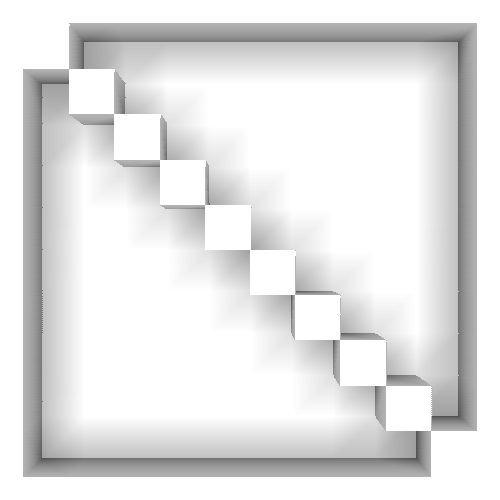
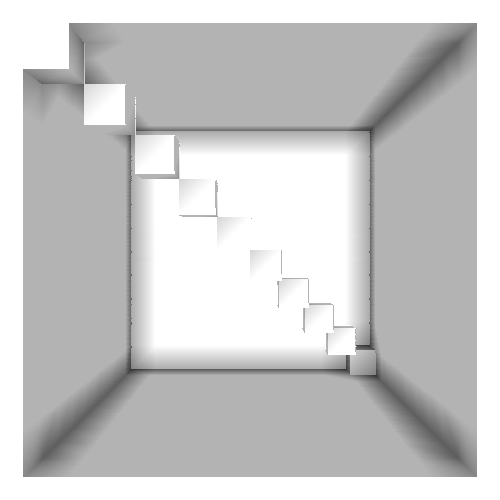
added 3d region

diff --git a/src/render/block.c b/src/render/block.c
@@ -26,10 +26,14 @@ Vertex* bufferGet(VertexBuffer* buffer, size_t index) {
 	return &buffer->data[index];
 }
 
-int index2D(int* grid, size_t x, size_t y, size_t width, size_t height, int outBounds) {
-	if (x < 0 || x >= width || y < 0 || y >= width) return outBounds;
-
-	return grid[y * width + x];
+int index3D(int* grid, Vec3 pos, Vec3 size) {
+	if (pos.z < 0) {
+		return 0;
+	}
+	if (pos.x < 0 || pos.x >= size.x || pos.y < 0 || pos.y >= size.y || pos.z >= size.z) {
+		return 1;
+	}
+	return grid[((int)pos.z * (int)size.y + (int)pos.y) * (int)size.x + (int)pos.x];
 }
 
 int vertexAO(int side0, int side1, int corner) {
@@ -39,66 +43,54 @@ int vertexAO(int side0, int side1, int corner) {
 	return side0 + side1 + corner;
 }
 
-VertexBuffer fromGrid(int* grid, size_t width, size_t height) {
+VertexBuffer fromGrid(int* grid, size_t width, size_t height, size_t depth) {
 	VertexBuffer vertices = newBuffer();
-	for (int j = 0; j <= height; j++) {
-		for (int i = 0; i <= width; i++) {
-			float x = i - width/2.0;
-			float y = j - height/2.0;
 
-			int middle = index2D(grid, i, j, width, height, 1);
+	Vec3 size = vec3(width, height, depth);
 
-			int top = index2D(grid, i, j - 1, width, height, 1);
-			int left = index2D(grid, i - 1, j, width, height, 1);
-			int bottom = index2D(grid, i, j + 1, width, height, 1);
-			int right = index2D(grid, i + 1, j, width, height, 1);
+	for (int k = 0; k <= depth; k++) {
+		for (int j = 0; j <= height; j++) {
+			for (int i = 0; i <= width; i++) {
+				float x = i - width/2.0;
+				float y = j - height/2.0;
 
-			int topleft = index2D(grid, i - 1, j - 1, width, height, 1);
-			int topright = index2D(grid, i + 1, j - 1, width, height, 1);
-			int bottomleft = index2D(grid, i -1, j + 1, width, height, 1);
-			int bottomright = index2D(grid, i + 1, j + 1, width, height, 1);
+				Vec3 pos = vec3(i, j, k);
+				Vec3 screenSpace = vec3(x, y, k);
 
-			if (middle != top) {
-				int cornerleft, cornerright, sideleft, sideright;
-				if (middle == 1) {
-					cornerleft = left;
-					cornerright = right;
-					sideleft = topleft;
-					sideright = topright;
-				} else {
-					cornerleft = topleft;
-					cornerright = topright;
-					sideleft = left;
-					sideright = right;
+				int middle = index3D(grid, vec3(i, j, k), size);
+
+				Vec3 axes[3][3] = {
+					{vec3(0, 1, 0), vec3(0, 0, 1), vec3(1, 0, 0)},
+					{vec3(0, 0, 1), vec3(1, 0, 0), vec3(0, 1, 0)},
+					{vec3(1, 0, 0), vec3(0, 1, 0), vec3(0, 0, 1)}
+				};
+
+				for (int i = 0; i < 3; i++) {
+					Vec3 axisX = axes[i][0];
+					Vec3 axisY = axes[i][1];
+					Vec3 axisZ = axes[i][2];
+					if (index3D(grid, vec3Sub(pos, axisZ), size) != middle) {
+						Vec3 current = pos;
+						if (middle == 1) {
+							current = vec3Sub(current, axisZ);
+						}
+						int top = index3D(grid, vec3Sub(current, axisY), size);
+						int left = index3D(grid, vec3Sub(current, axisX), size);
+						int bottom = index3D(grid, vec3Add(current, axisY), size);
+						int right = index3D(grid, vec3Add(current, axisX), size);
+
+						int topleft = index3D(grid, vec3Sub(vec3Sub(current, axisX), axisY), size);
+						int topright = index3D(grid, vec3Sub(vec3Add(current, axisX), axisY), size);
+						int bottomleft = index3D(grid, vec3Add(vec3Sub(current, axisX), axisY), size);
+						int bottomright = index3D(grid, vec3Add(vec3Add(current, axisX), axisY), size);
+
+						bufferPush(&vertices, (Vertex) {.pos = screenSpace, .adjacent = vertexAO(top, left, topleft)});
+						bufferPush(&vertices, (Vertex) {.pos = vec3Add(screenSpace, axisX), .adjacent = vertexAO(top, right, topright)});
+						bufferPush(&vertices, (Vertex) {.pos = vec3Add(screenSpace, axisY), .adjacent = vertexAO(bottom, left, bottomleft)});
+						bufferPush(&vertices, (Vertex) {.pos = vec3Add(vec3Add(screenSpace, axisX), axisY), .adjacent = vertexAO(bottom, right, bottomright)});
+					}
 				}
-				bufferPush(&vertices, (Vertex) {.pos = vec3(x, y, 0), .adjacent = 0});
-				bufferPush(&vertices, (Vertex) {.pos = vec3(x + 1, y, 0), .adjacent = 0});
-				bufferPush(&vertices, (Vertex) {.pos = vec3(x, y, 1), .adjacent = vertexAO(1, sideleft, cornerleft)});
-				bufferPush(&vertices, (Vertex) {.pos = vec3(x + 1, y, 1), .adjacent = vertexAO(1, sideright, cornerright)});
 			}
-			if (middle != left) {
-				int cornertop, cornerbottom, sidetop, sidebottom;
-				if (middle == 1) {
-					cornertop = top;
-					cornerbottom = bottom;
-					sidetop = topleft;
-					sidebottom = bottomleft;
-				} else {
-					cornertop = topleft;
-					cornerbottom = bottomleft;
-					sidetop = top;
-					sidebottom = bottom;
-				}
-				bufferPush(&vertices, (Vertex) {.pos = vec3(x, y + 1, 0), .adjacent = 0});
-				bufferPush(&vertices, (Vertex) {.pos = vec3(x, y, 0), .adjacent = 0});
-				bufferPush(&vertices, (Vertex) {.pos = vec3(x, y + 1, 1), .adjacent = vertexAO(1, sidebottom, cornerbottom)});
-				bufferPush(&vertices, (Vertex) {.pos = vec3(x, y, 1), .adjacent = vertexAO(1, sidetop, cornertop)});
-			}
-			int z = 1 - index2D(grid, i, j, width, height, 1);
-			bufferPush(&vertices, (Vertex) {.pos = vec3(x, y, z), .adjacent = z * vertexAO(top, left, topleft)});
-			bufferPush(&vertices, (Vertex) {.pos = vec3(x + 1, y, z), .adjacent = z * vertexAO(top, right, topright)});
-			bufferPush(&vertices, (Vertex) {.pos = vec3(x, y + 1, z), .adjacent = z * vertexAO(bottom, left, bottomleft)});
-			bufferPush(&vertices, (Vertex) {.pos = vec3(x + 1, y + 1, z), .adjacent = z * vertexAO(bottom, right, bottomright)});
 		}
 	}
 

diff --git a/src/render/render.c b/src/render/render.c
@@ -1,5 +1,8 @@
 #include "render.h"
 
+#include <stdio.h>
+#include <stdbool.h>
+
 Pixel pixel(float r, float g, float b, float a, float depth) {
 	Pixel pixel;
 	pixel.color.r = r;
@@ -26,53 +29,56 @@ Vec3 project(Vec3 p, Camera c) {
 }
 
 void render(unsigned char* image, size_t width, size_t height) {
-	int* grid = (int*)calloc(10 * 10, sizeof(int));
+	int* grid = (int*)calloc(10 * 10 * 10, sizeof(int));
 
-	for (int i = 0; i < 10; i++) {
+	for (int k = 0; k < 10; k++) {
 		for (int j = 0; j < 10; j++) {
-			// if (i == 0 || i == 9 || j == 0 || j == 9) {
-			// 	grid[i * 10 + j] = 0;
-			// } else {
-			// 	grid[i * 10 + j] = 1;
-			// }
-			if (i == j) {
-				grid[i * 10 + j] = 1;
-			} else {
-				grid[i * 10 + j] = 0;
+			for (int i = 0; i < 10; i++) {
+				// if (i == 0 || i == 9 || j == 0 || j == 9) {
+				// 	grid[i * 10 + j] = 0;
+				// } else {
+				// 	grid[i * 10 + j] = 1;
+				// }
+				if (i == j && j == k) {
+					grid[(k * 10 + j) * 10 + i] = 1;
+				} else {
+					grid[(k * 10 + j) * 10 + i] = 0;
+				}
 			}
 		}
 	}
-	grid[0] = 1;
 
 	Pixel* pixels = calloc(width * height, sizeof(Pixel));
 	for (int i = 0; i < width * height; i++) {
 		pixels[i] = pixel(0, 0, 0, 0, -INFINITY);
 	}
 
-	VertexBuffer vertices = fromGrid(grid, 10, 10);
+	VertexBuffer vertices = fromGrid(grid, 10, 10, 10);
 
 	Camera camera;
 	camera.pos = vec3(0, 0, -1);
 	camera.focalLength = 10;
 
 	float scaleFactor = 50.0;
-	float shadowRatio = 1/8.0;
+	float shadowRatio = 1/6.0;
 
-	outer: for (int i = 0; i < vertices.len; i+=4) {
+	for (int i = 0; i < vertices.len; i+=4) {
+		bool shouldContinue = false;
 		Vec3 face[4];
 		int adjacent[4];
 		for (int j = 0; j < 4; j++) {
 			Vertex* vertex = bufferGet(&vertices, i + j);
 			Vec3 projected = project(vertex->pos, camera);
 			if (projected.z == -1) {
-				goto outer; // this skips the face as one of its vertices are behind the camera
-				// please tell me a better solution than to use a goto (this feels extremely ugly)
+				shouldContinue = true;
+				break;
 			}
 			int x = (int)(scaleFactor * projected.x) + width/2;
 			int y = (int)(scaleFactor * projected.y) + height/2;
 			face[j] = vec3(x, y, projected.z);
 			adjacent[j] = vertex->adjacent;
 		}
+		if (shouldContinue) continue;
 		Vec3 v0 = bufferGet(&vertices, i + 0)->pos;
 		Vec3 v1 = bufferGet(&vertices, i + 1)->pos;
 		Vec3 v2 = bufferGet(&vertices, i + 2)->pos;

diff --git a/src/render/block.h b/src/render/block.h
@@ -26,9 +26,6 @@ typedef struct {
 	Vertex* vertices[4];
 } Face;
 
-Vec3 vec3(float x, float y, float z);
-Vec3 vec3Lerp(Vec3 p0, Vec3 p1, float t);
+int index3D(int* grid, Vec3 pos, Vec3 size);
 
-int index2D(int* grid, size_t x, size_t y, size_t width, size_t height, int outBounds);
-
-VertexBuffer fromGrid(int* grid, size_t gridWidth, size_t gridHeight);
+VertexBuffer fromGrid(int* grid, size_t width, size_t height, size_t depth);

diff --git a/src/render/type/type.c b/src/render/type/type.c
@@ -9,6 +9,21 @@ Vec3 vec3(float x, float y, float z) {
 	return vec;
 }
 
+Vec3 vec3Add(Vec3 p0, Vec3 p1) {
+	return vec3(
+		p0.x + p1.x,
+		p0.y + p1.y,
+		p0.z + p1.z
+	);
+}
+Vec3 vec3Sub(Vec3 p0, Vec3 p1) {
+	return vec3(
+		p0.x - p1.x,
+		p0.y - p1.y,
+		p0.z - p1.z
+	);
+}
+
 Vec3 vec3Lerp(Vec3 p0, Vec3 p1, float t) {
 	return vec3(
 		p0.x + t*(p1.x - p0.x),

diff --git a/src/render/type/type.h b/src/render/type/type.h
@@ -7,6 +7,8 @@ typedef struct Vec3 {
 } Vec3;
 
 Vec3 vec3(float x, float y, float z);
+Vec3 vec3Add(Vec3 p0, Vec3 p1);
+Vec3 vec3Sub(Vec3 p0, Vec3 p1);
 Vec3 vec3Lerp(Vec3 p0, Vec3 p1, float t);
 Vec3 normalise(Vec3 p);
 
